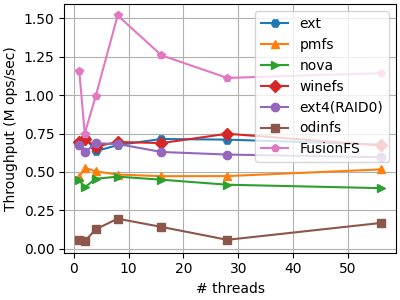
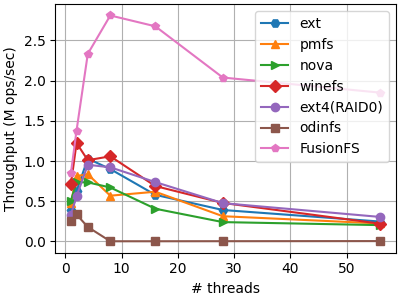
Fix oltp.f, update plot scripts

diff --git a/eval/fig/sensitivity.py b/eval/fig/sensitivity.py
@@ -4,7 +4,14 @@ import numpy as np
 import matplotlib.pyplot as plt
 from pprint import pprint
 
+old_fontsize = plt.rcParams['font.size']
+plt.rcParams['font.size'] = old_fontsize * 1.1
+
 # Threshold 图的参数
+c = np.array([[102, 194, 165], [252, 141, 98], [141, 160, 203], 
+        [231, 138, 195], [166,216,84], [255, 217, 47],
+        [229, 196, 148], [179, 179, 179]])
+c  = c/255
 threshold_markers = ['H', '^', '>', 'D', 'o', 's', 'p', 'x']
 threshold_data_dir = '../data/threshold'
 threshold_labels = {
@@ -18,8 +25,8 @@ threshold_labels = {
 # Fig9 图的参数
 fig9_data_dir = '../data'
 fig9_labels = ['4', '8', '12', '16', '20']
-fig9_linestyles = ['-', '--', '-.', ':', '-']
-fig9_markers = ['o', '^', 's', 'D', 'x']
+# fig9_linestyles = ['-', '--', '-.', ':', '-']
+# fig9_markers = ['o', '^', 's', 'D', 'x']
 
 fig9_files = [
     'odinfs-4-threads/pm-array:odinfs:seq-write-4K-hot:bufferedio.dat',
@@ -138,13 +145,14 @@ def plot_threshold(ax, data):
             points = sorted(data[update_mode], key=lambda x: x[0])
             x = [point[2].replace('K', '') for point in points]
             y = [point[1] / 1024 / 1024 for point in points]
-            ax.plot(x, y, label=threshold_labels[update_mode], marker=threshold_markers[i])
+            ax.plot(x, y, label=threshold_labels[update_mode], marker=threshold_markers[i], color=c[i], lw=3, mec='black', markersize=8, alpha=1)
             i += 1
-    ax.set_xlabel('I/O Size (KB)')
+    ax.set_xlabel('I/O size (KB)')
     ax.set_ylabel('Throughput (GiB/s)')
-    ax.legend()
-    ax.grid(True)
-    ax.set_title('(a) I/O sizes')
+    # ax.legend()
+    ax.legend(loc='upper center', bbox_to_anchor=(0.5, 1.6), ncol=2, frameon=False)
+    ax.grid(axis='y', linestyle='-.')
+    ax.set_title('(a) 4K uniform rand write')
 
 def plot_fig9(ax, data):
     for label in fig9_labels:
@@ -152,26 +160,31 @@ def plot_fig9(ax, data):
             points = sorted(data[label], key=lambda x: x[0])
             x = [point[0] for point in points]
             y = [point[1] for point in points]
-            ax.plot(x, y, label=label, linestyle=fig9_linestyles[fig9_labels.index(label)], marker=fig9_markers[fig9_labels.index(label)])
+            ax.plot(x, y, label=label + " threads", marker=threshold_markers[fig9_labels.index(label)], color=c[fig9_labels.index(label)], lw=3, mec='black', markersize=8, alpha=1)
     ax.set_xlabel('# threads')
     ax.set_ylabel('Throughput (GiB/s)')
-    ax.legend(ncol=2)
-    ax.grid(True)
-    ax.set_title('(b) kernel threads')
+    # ax.legend(ncol=2)
+    ax.legend(loc='upper center', bbox_to_anchor=(0.5, 1.6), ncol=2, frameon=False)
+    ax.grid(axis='y', linestyle='-.')
+    ax.set_xticks([1, 4, 8, 16, 28, 56])
+    ax.set_title('(b) 4K hot write')
 
 def plot_numa(ax, data):
     sorted_sockets = sorted(data.keys())
     for sockets in sorted_sockets:
         points = sorted(data[sockets], key=lambda x: x[0])
         x = [point[0] for point in points]
+        # ax.set_xticks(x)
         y = [point[1] / 1024 for point in points]
         label = '1 socket' if sockets == 1 else f'{sockets} sockets'
-        ax.plot(x, y, label=label, marker='o')
-    ax.set_xlabel('File Size (MB)')
-    ax.set_ylabel('PM Writes (GB)')
-    ax.legend()
-    ax.grid(True)
-    ax.set_title('(c) NUMA nodes')
+        ax.plot(x, y, label=label, marker=threshold_markers[sorted_sockets.index(sockets)], color=c[sorted_sockets.index(sockets)], lw=3, mec='black', markersize=8, alpha=1)
+    ax.set_xlabel('File size (MB)')
+    ax.set_ylabel('PM writes (GB)')
+    # ax.legend()
+    ax.legend(loc='upper center', bbox_to_anchor=(0.5, 1.35), ncol=2, frameon=False)
+    ax.grid(axis='y', linestyle='-.')
+    ax.set_xticks([8, 16, 24, 32, 40])
+    ax.set_title('(c) 4K uniform rand write')
 
 # 收集数据
 threshold_data = collect_threshold_data()
@@ -179,7 +192,7 @@ fig9_data = collect_fig9_data()
 numa_data = collect_numa_data()
 
 # 创建图形和子图
-fig, axs = plt.subplots(1, 3, figsize=(10, 3), layout="constrained")
+fig, axs = plt.subplots(1, 3, figsize=(10, 3))
 
 # 绘制每个子图
 plot_threshold(axs[0], threshold_data)
@@ -187,7 +200,8 @@ plot_fig9(axs[1], fig9_data)
 plot_numa(axs[2], numa_data)
 
 # 调整布局并保存图形
-# plt.tight_layout()
-plt.savefig("sensitivity.png")
-plt.savefig("sensitivity.pdf")
+plt.tight_layout()
+fig.subplots_adjust(top=0.8)
+plt.savefig("sensitivity.png", bbox_inches='tight')
+plt.savefig("sensitivity.pdf", bbox_inches='tight')
 plt.show()

diff --git a/eval/fig/application.py b/eval/fig/application.py
@@ -6,18 +6,35 @@ import re
 
 order = ['ext4', 'pmfs', 'nova', 'winefs', 'odinfs', 'FusionFS']
 
+old_fontsize = plt.rcParams['font.size']
+plt.rcParams['font.size'] = old_fontsize * 1.1
+
+c = np.array([[102, 194, 165], [252, 141, 98], [141, 160, 203], 
+        [231, 138, 195], [166,216,84], [255, 217, 47],
+        [229, 196, 148], [179, 179, 179]])
+c  = c/255
+
 # 创建子图
-fig, (ax1, ax2, ax3) = plt.subplots(1, 3, figsize=(10, 3), layout='constrained')
+fig, (ax1, ax2, ax3) = plt.subplots(1, 3, figsize=(10, 3))
 
 data_dir = '../data/filebench'
 
 filesystems = {
     "pmem-local:ext4": "ext4",
-    "pmfs": "pmfs",
-    "nova": "nova",
-    "winefs": "winefs",
+    "pmfs": "PMFS",
+    "nova": "NOVA",
+    "winefs": "WineFS",
     "dm-stripe:ext4": "ext4(RAID0)",
-    "pm-array:odinfs": "odinfs",
+    "pm-array:odinfs": "ODINFS",
+    "FusionFS": "FusionFS"
+}
+
+labels = {
+    "ext4": "ext4",
+    "pmfs": "PMFS",
+    "nova": "NOVA",
+    "winefs": "WineFS",
+    "odinfs": "ODINFS",
     "FusionFS": "FusionFS"
 }
 
@@ -33,13 +50,15 @@ for fs, label in filesystems.items():
             if pattern.search(file):
                 filepath = os.path.join(root, file)
                 data = np.loadtxt(filepath, usecols=(0, 1))
-                ax1.plot(data[:, 0], data[:, 1] / 1000000, label=label, marker=markers[i])
+                ax1.plot(data[:, 0], data[:, 1] / 1000000, label=label, marker=markers[i], color=c[i], lw=3, mec='black', markersize=8, alpha=1)
     i = i + 1
 ax1.set_xlabel('# threads')
 ax1.set_ylabel('Throughput (M ops/sec)')
-ax1.set_title('OLTP')
-ax1.grid(True)
-ax1.legend()
+ax1.set_title('(a) Filebench OLTP')
+ax1.grid(axis='y', linestyle='-.')
+ax1.set_xticks([1, 4, 8, 16, 28, 56])
+# ax1.legend()
+ax1.legend(loc='upper center', bbox_to_anchor=(0.5, 1.6), ncol=2, frameon=False)
 
 
 # 读取CSV文件
@@ -62,36 +81,43 @@ width1 = 0.1  # 柱状图的宽度
 # 左子图：TPCC
 # ax2.bar(x, tpcc_performance, width, label='TPCC')
 for i, fs in enumerate(order):
-    ax2.bar(x1 + i * width1 - (len(order) / 2 - 0.5) * width1, [tpcc_performance[i]], width1, label=fs)
+    ax2.bar(x1 + i * width1 - (len(order) / 2 - 0.5) * width1, [tpcc_performance[i] / 1000], width1, label=labels[fs])
 
-ax2.set_xlabel('File System')
-ax2.set_ylabel('Throughput (ops/sec)')
-ax2.set_title('TPCC Performance')
+# ax2.set_xlabel('File system')
+ax2.set_ylabel('K transactions/sec')
+ax2.set_title('(b) TPC-C on SQLite')
 # ax2.set_xticks(x)
 # ax2.set_xticklabels(order)
 ax2.set_xticks(x1)
-ax2.set_xticklabels(['TPCC'])
-ax2.legend()
+ax2.set_xticklabels(['TPC-C'])
+ax2.grid(axis='y', linestyle='-.')
+ax2.set_xlim(-0.8, 0.8)
+# ax2.legend()
+ax2.legend(loc='upper center', bbox_to_anchor=(0.5, 1.6), ncol=2, frameon=False)
 
 # 右子图：KyotoCabinet 和 LMDB
 x2 = np.arange(2)  # x 轴的位置，2个负载
 width2 = 0.1  # 柱状图的宽度
 
 for i, fs in enumerate(order):
-    ax3.bar(x2 + i * width2 - (len(order) / 2 - 0.5) * width2, [kyoto_performance[i], lmdb_performance[i]], width2, label=fs)
+    ax3.bar(x2 + i * width2 - (len(order) / 2 - 0.5) * width2, [kyoto_performance[i] / 1000, lmdb_performance[i] / 1000], width2, label=labels[fs])
 
-ax3.set_xlabel('Workload')
-ax3.set_ylabel('Throughput (ops/sec)')
-ax3.set_title('KyotoCabinet and LMDB Performance')
+# ax3.set_xlabel('Workload')
+ax3.set_ylabel('Throughput (K ops/sec)')
+ax3.set_title('(c) mmap applications')
 ax3.set_xticks(x2)
 ax3.set_xticklabels(['KyotoCabinet', 'LMDB'])
-ax3.legend(title='File System')
+ax3.grid(axis='y', linestyle='-.')
+# ax3.legend(title='File System')
+ax3.legend(loc='upper center', bbox_to_anchor=(0.5, 1.6), ncol=2, frameon=False)
 
 # 调整布局
-# plt.tight_layout()
+plt.tight_layout()
 
 # 显示图表
-plt.savefig('application.png')
+fig.subplots_adjust(top=0.8)
+plt.savefig('application.png', bbox_inches='tight')
+plt.savefig('application.pdf', bbox_inches='tight')
 # plt.show()
 
 # import pandas as pd

diff --git a/eval/fig/fig7.py b/eval/fig/fig7.py
@@ -12,51 +12,18 @@ old_fontsize = plt.rcParams['font.size']
 plt.rcParams['font.size'] = old_fontsize * 1.1
 
 # 定义绘图函数
-def plot_data(ax, file_paths, labels, title, ylabel=None, xlabel=None):
+def plot_data(ax, file_paths, labels, title, ylabel=None, xlabel=None, data_col=4): # 3: 50, 4: 99
     i = 0
-    fusionfs_data = None
-    other_data = []
     for file_path, label in zip(file_paths, labels):
         try:
             data = pd.read_csv(file_path, sep='\s+', header=None, skiprows=1, on_bad_lines='skip')
             data[0] = pd.to_numeric(data[0], errors='coerce')
             data[1] = pd.to_numeric(data[1], errors='coerce')
             data = data.dropna()
-            ax.plot(data[0], data[1] / 1024 / 1024, label=label, marker=markers[i], color=c[i], lw=3, mec='black', markersize=8, alpha=1)
-            if label == 'FusionFS':
-                fusionfs_data = data
-            else:
-                other_data.append(data)
+            ax.plot(data[0], data[data_col], label=label, marker=markers[i], color=c[i], lw=3, mec='black', markersize=8, alpha=1)
         except pd.errors.ParserError as e:
             print(f"Error parsing {file_path}: {e}")
         i += 1
-    
-    if fusionfs_data is not None:
-        max_outperform = {}
-        max_underperform = {}
-        for thread_count in fusionfs_data[0]:
-            fusionfs_value = fusionfs_data[fusionfs_data[0] == thread_count][1].values[0]
-            max_ratio = 0
-            max_percentage = 0
-            for other in other_data:
-                other_value = other[other[0] == thread_count][1].values[0]
-                ratio = fusionfs_value / other_value
-                if ratio > max_ratio:
-                    max_ratio = ratio
-                percentage = ((other_value - fusionfs_value) / other_value) * 100
-                if percentage > max_percentage:
-                    max_percentage = percentage
-            max_outperform[thread_count] = max_ratio
-            max_underperform[thread_count] = max_percentage
-        
-        print("FusionFS outperform ratios for", title)
-        for thread_count, ratio in max_outperform.items():
-            print(f"Thread count {thread_count}: {ratio:.2f} times")
-        
-        print("FusionFS underperform percentages for", title)
-        for thread_count, percentage in max_underperform.items():
-            print(f"Thread count {thread_count}: {percentage:.2f}%")
-    
     ax.set_title(title)
     if ylabel:
         ax.set_ylabel(ylabel)
@@ -148,15 +115,8 @@ labels_2m_zipf_write = ['ext4', 'PMFS', 'NOVA', 'WineFS', 'ODINFS', 'FusionFS']
 # 创建子图
 fig, axs = plt.subplots(1, 4, figsize=(10, 3))
 
-# 绘制4K读数据
-# plot_data(axs[3], file_paths_4k_read, labels_4k_read, '(a) 4K read', ylabel='Throughput (GiB/s)')
-
 # 绘制4K写数据
 plot_data(axs[0], file_paths_4k_write, labels_4k_write, '(a) 4K write', ylabel='Throughput (GiB/s)', xlabel='# threads')
-
-# 绘制2M读数据
-# plot_data(axs[1, 0], file_paths_2m_read, labels_2m_read, '(c) 2M read', ylabel='Throughput (GiB/s)', xlabel='# threads')
-
 # 绘制2M写数据
 plot_data(axs[1], file_paths_4k_zipf_write, labels_4k_zipf_write, '(b) 4K zipf write', xlabel='# threads')
 
@@ -171,5 +131,5 @@ fig.legend(handles, labels, loc=9, ncol=len(labels_2m_zipf_write), frameon=False
 # 调整布局
 plt.tight_layout()
 fig.subplots_adjust(top=0.8)
-plt.savefig("fio.pdf", bbox_inches='tight')
+plt.savefig("fig7.png", bbox_inches='tight')
 plt.show()

diff --git a/eval/benchmark/fxmark/bin/run-filebench.py b/eval/benchmark/fxmark/bin/run-filebench.py
@@ -195,7 +195,10 @@ class FileBench(object):
 
     def setup_workload_start(self):
         # config number of workers
-        if self.workload == "fileserver":
+        if self.workload == "oltp":
+            self._append_to_config("set $nshadows=%d"   % (self.ncore))
+            self._append_to_config("set $ndbwriters=%d" % (min(self.ncore, 63)))
+        elif self.workload == "fileserver":
             self._append_to_config("set $nthreads=%d"   % (self.ncore))
         elif self.workload == "varmail":
             self._append_to_config("set $nthreads=%d"   % (self.ncore))

diff --git a/fs/odinfs/cache.h b/fs/odinfs/cache.h
@@ -8,7 +8,7 @@
 #include "pmfs.h"
 #include "pmfs_config.h"
 // IMPORTANT: 这个值需要根据CAT分配的缓存调整
-#define FREQUENT_LIMIT (6 * 896 * 4096) // TODO: 写请求可能包含多页
+#define FREQUENT_LIMIT (5 * 896 * 4096) // TODO: 写请求可能包含多页
 #define RECENT_LIMIT (6 * 896 * 4096) // 这个调小可以减少抖动？TODO: 驱逐时flush
 
 #define ACCESS_COUNT 1
